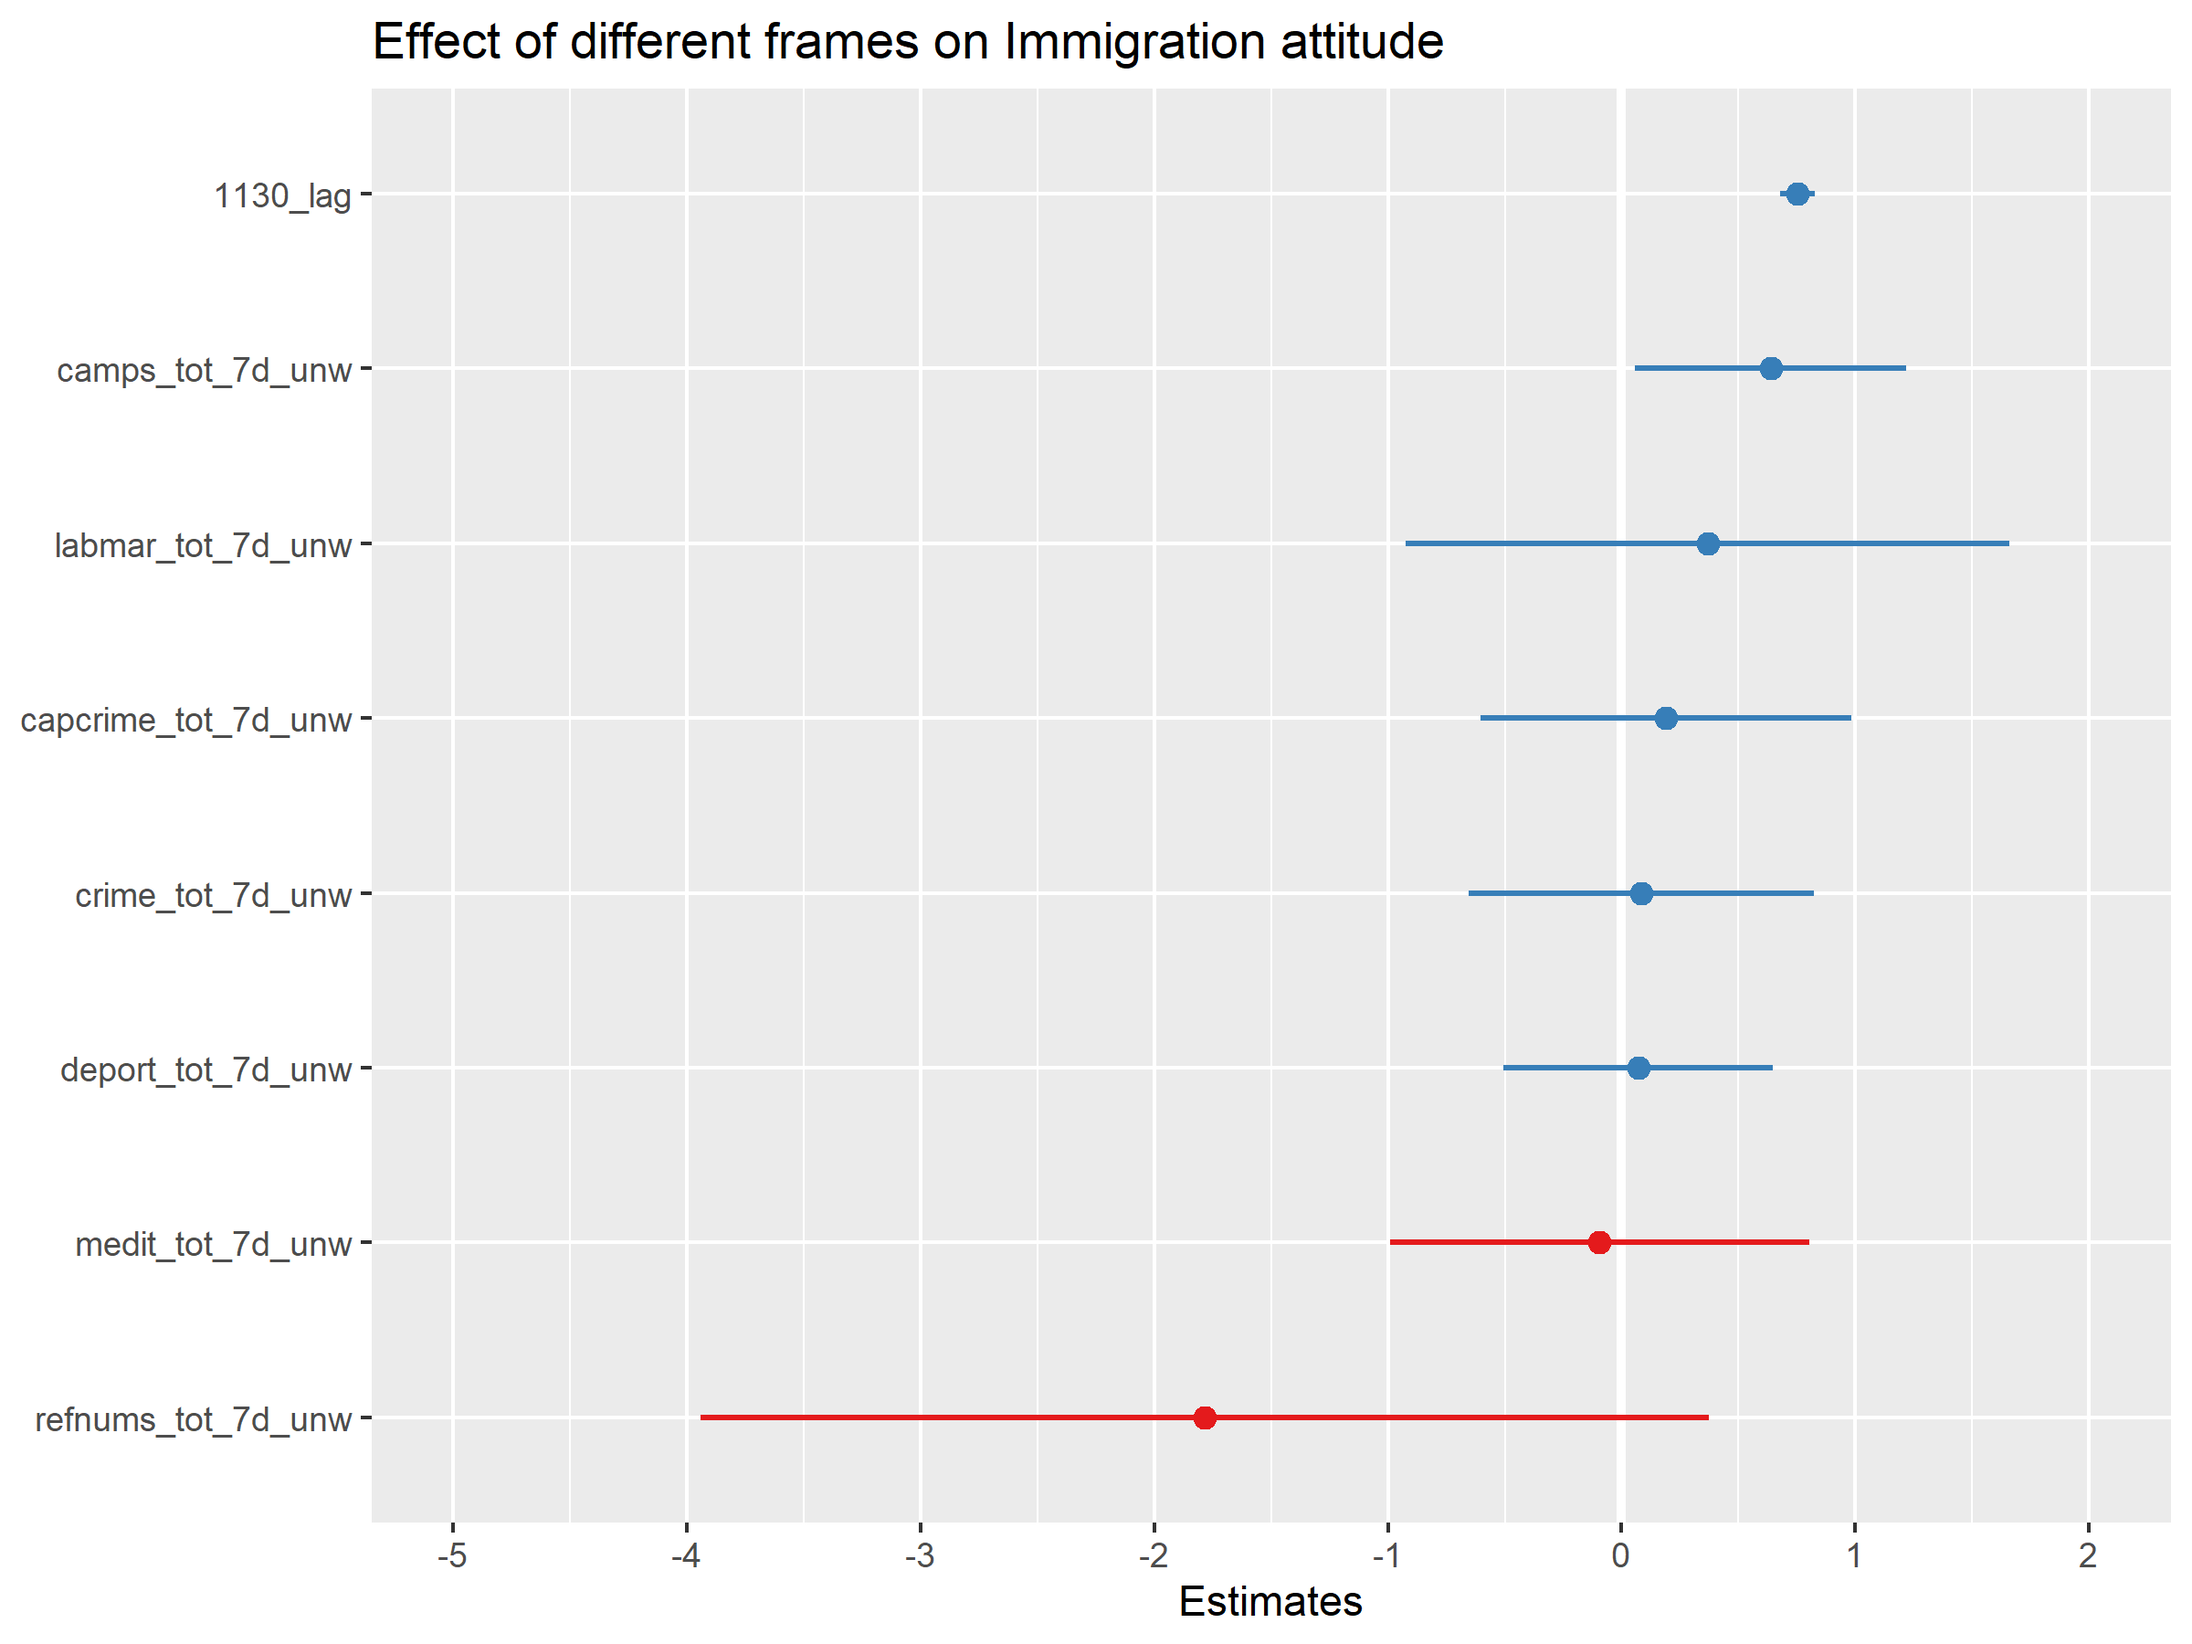
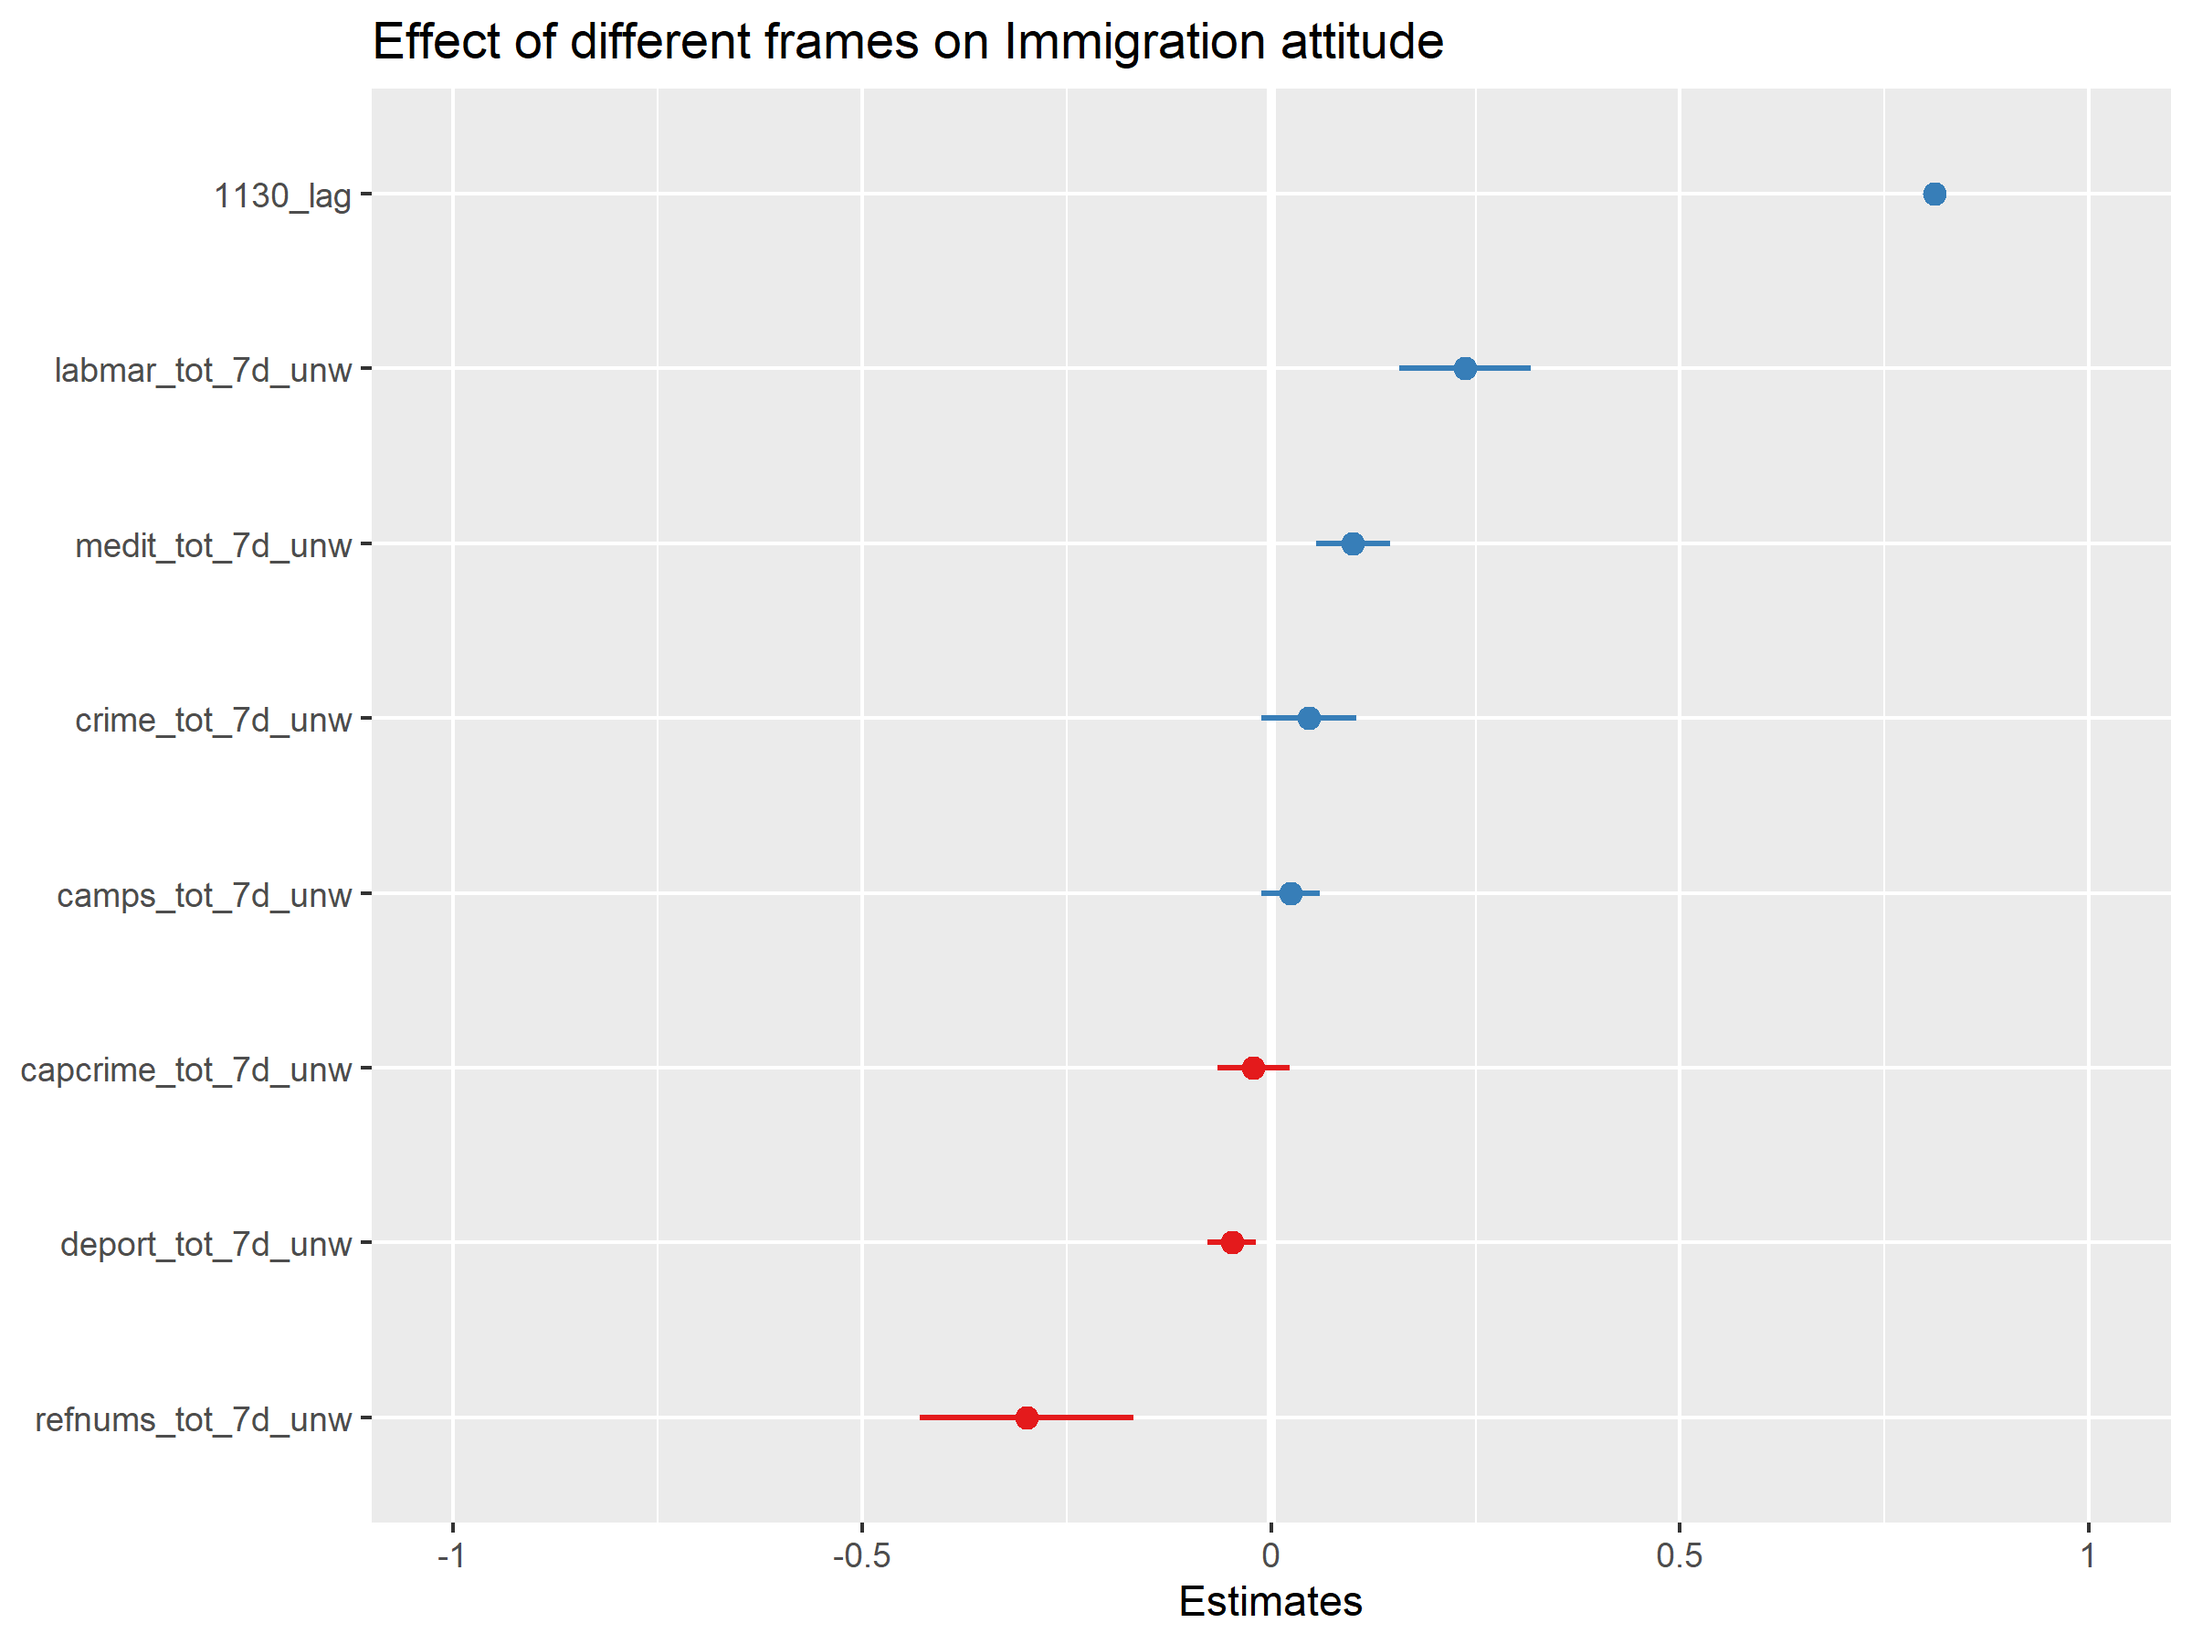
Fix issue of few observations in individual model

diff --git a/paper/imm_unw.tex b/paper/imm_unw.tex
@@ -1,6 +1,6 @@
 
 % Table created by stargazer v.5.2.2 by Marek Hlavac, Harvard University. E-mail: hlavac at fas.harvard.edu
-% Date and time: Mi, Sep 29, 2021 - 10:10:35
+% Date and time: Mi, Sep 29, 2021 - 10:57:43
 \begin{table}[!htbp] \centering 
   \caption{Individual-level Model} 
   \label{} 
@@ -12,42 +12,42 @@
 \\[-1.8ex] & `1130\_clean` & `1210\_clean` \\ 
 \\[-1.8ex] & (1) & (2)\\ 
 \hline \\[-1.8ex] 
- `1130\_lag` & 0.752$^{***}$ &  \\ 
-  & (0.038) &  \\ 
+ `1130\_lag` & 0.811$^{***}$ &  \\ 
+  & (0.004) &  \\ 
   & & \\ 
- `1210\_lag` &  & 0.593$^{***}$ \\ 
-  &  & (0.073) \\ 
+ `1210\_lag` &  & 0.733$^{***}$ \\ 
+  &  & (0.009) \\ 
   & & \\ 
- scale(crime\_tot\_7d\_unw, center = T, scale = T) & 0.084 & 0.073 \\ 
-  & (0.376) & (0.530) \\ 
+ scale(crime\_tot\_7d\_unw, center = T, scale = T) & 0.046 & $-$0.025 \\ 
+  & (0.030) & (0.092) \\ 
   & & \\ 
- scale(capcrime\_tot\_7d\_unw, center = T, scale = T) & 0.189 & 1.302 \\ 
-  & (0.404) & (0.848) \\ 
+ scale(capcrime\_tot\_7d\_unw, center = T, scale = T) & $-$0.022 & $-$0.043 \\ 
+  & (0.022) & (0.064) \\ 
   & & \\ 
- scale(refnums\_tot\_7d\_unw, center = T, scale = T) & $-$1.785 & 0.575 \\ 
-  & (1.096) & (2.554) \\ 
+ scale(refnums\_tot\_7d\_unw, center = T, scale = T) & $-$0.299$^{***}$ & $-$0.266 \\ 
+  & (0.067) & (0.238) \\ 
   & & \\ 
- scale(camps\_tot\_7d\_unw, center = T, scale = T) & 0.637$^{**}$ & 0.263 \\ 
-  & (0.296) & (1.174) \\ 
+ scale(camps\_tot\_7d\_unw, center = T, scale = T) & 0.024 & 0.224 \\ 
+  & (0.018) & (0.167) \\ 
   & & \\ 
- scale(medit\_tot\_7d\_unw, center = T, scale = T) & $-$0.095 & 0.229 \\ 
-  & (0.456) & (1.016) \\ 
+ scale(medit\_tot\_7d\_unw, center = T, scale = T) & 0.100$^{***}$ & 0.062 \\ 
+  & (0.023) & (0.069) \\ 
   & & \\ 
- scale(labmar\_tot\_7d\_unw, center = T, scale = T) & 0.368 & 2.177 \\ 
-  & (0.656) & (3.076) \\ 
+ scale(labmar\_tot\_7d\_unw, center = T, scale = T) & 0.237$^{***}$ & 0.475$^{**}$ \\ 
+  & (0.041) & (0.212) \\ 
   & & \\ 
- scale(deport\_tot\_7d\_unw, center = T, scale = T) & 0.070 & $-$0.705 \\ 
-  & (0.293) & (0.533) \\ 
+ scale(deport\_tot\_7d\_unw, center = T, scale = T) & $-$0.048$^{***}$ & $-$0.087 \\ 
+  & (0.015) & (0.066) \\ 
   & & \\ 
- Constant & $-$0.122 & 3.011 \\ 
-  & (0.642) & (2.035) \\ 
+ Constant & 0.216$^{***}$ & $-$0.160$^{***}$ \\ 
+  & (0.012) & (0.056) \\ 
   & & \\ 
 \hline \\[-1.8ex] 
-Observations & 331 & 111 \\ 
-R$^{2}$ & 0.555 & 0.448 \\ 
-Adjusted R$^{2}$ & 0.544 & 0.405 \\ 
-Residual Std. Error & 1.208 (df = 322) & 1.083 (df = 102) \\ 
-F Statistic & 50.175$^{***}$ (df = 8; 322) & 10.368$^{***}$ (df = 8; 102) \\ 
+Observations & 25,290 & 6,811 \\ 
+R$^{2}$ & 0.641 & 0.493 \\ 
+Adjusted R$^{2}$ & 0.641 & 0.492 \\ 
+Residual Std. Error & 1.072 (df = 25281) & 1.043 (df = 6802) \\ 
+F Statistic & 5,633.561$^{***}$ (df = 8; 25281) & 826.656$^{***}$ (df = 8; 6802) \\ 
 \hline 
 \hline \\[-1.8ex] 
 \textit{Note:}  & \multicolumn{2}{r}{$^{*}$p$<$0.1; $^{**}$p$<$0.05; $^{***}$p$<$0.01} \\ 
